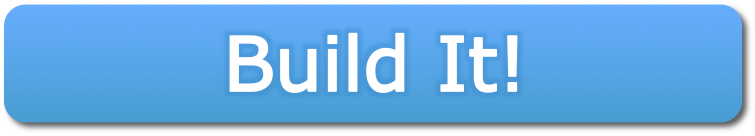
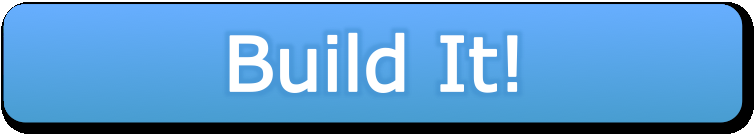
alignment improvements :)
works as well as it used to, yayay!

diff --git a/biy-stylesheet.css b/biy-stylesheet.css
@@ -176,24 +176,44 @@ a:hover
 }
 
 .img_wrapper{
+	width:100%;
 	height:100%;
+	margin:auto;
+	/*border: solid orange 1px;*/
 }
 
 .wrapped_picture{
 	max-height:100%;
+	margin:auto;
 }
 
 #build-it-button{
 	display:inline-block;
+	width:325px;
+	float:right;
+	/*margin:auto;*/
+	text-align:center;
 }
 
 #build-button{
 	width:300px;
-	margin:auto;
+	/*margin:auto;*/
+	float:right;
+	text-align:center;
 }
 
 #build-image{
 	width:100%;
+}
+
+#caption{
+	margin:auto;
+	text-align:center;
+}
+
+.centered-div{
+	text-align:center;
+	margin:auto;
 }
 
 .instructions-slider{

diff --git a/select-page/css/module-stylesheet.css b/select-page/css/module-stylesheet.css
@@ -3,7 +3,8 @@
 		#slides2,
 		#slides3 {
 			display: none;
-			margin-bottom:50px;
+			margin:auto auto 50px;
+			/*border: solid black 1px;*/
 		}
 
 		.slidesjs-navigation {
@@ -96,6 +97,8 @@
     
     #caption2 {
     	height:315px;
+		text-align:center;
+		margin:auto;
     }
     
     

diff --git a/select-page/build-it-blocks-module-page.php b/select-page/build-it-blocks-module-page.php
@@ -155,7 +155,7 @@
 			</script>
 		</div>
 			
-		<div>
+		<div class="centered-div">
 			<?php
 			include("../db-connect.php");
 			$module_number = $_GET["id"];
@@ -168,7 +168,7 @@
 			}
 			?>
 		</div>
-		<div onClick="HideInstr()">
+		<div class="centered-div" onClick="HideInstr()">
 			<img src="images/overview-button.png" width="160px"/>
 		</div>
 	</div>
